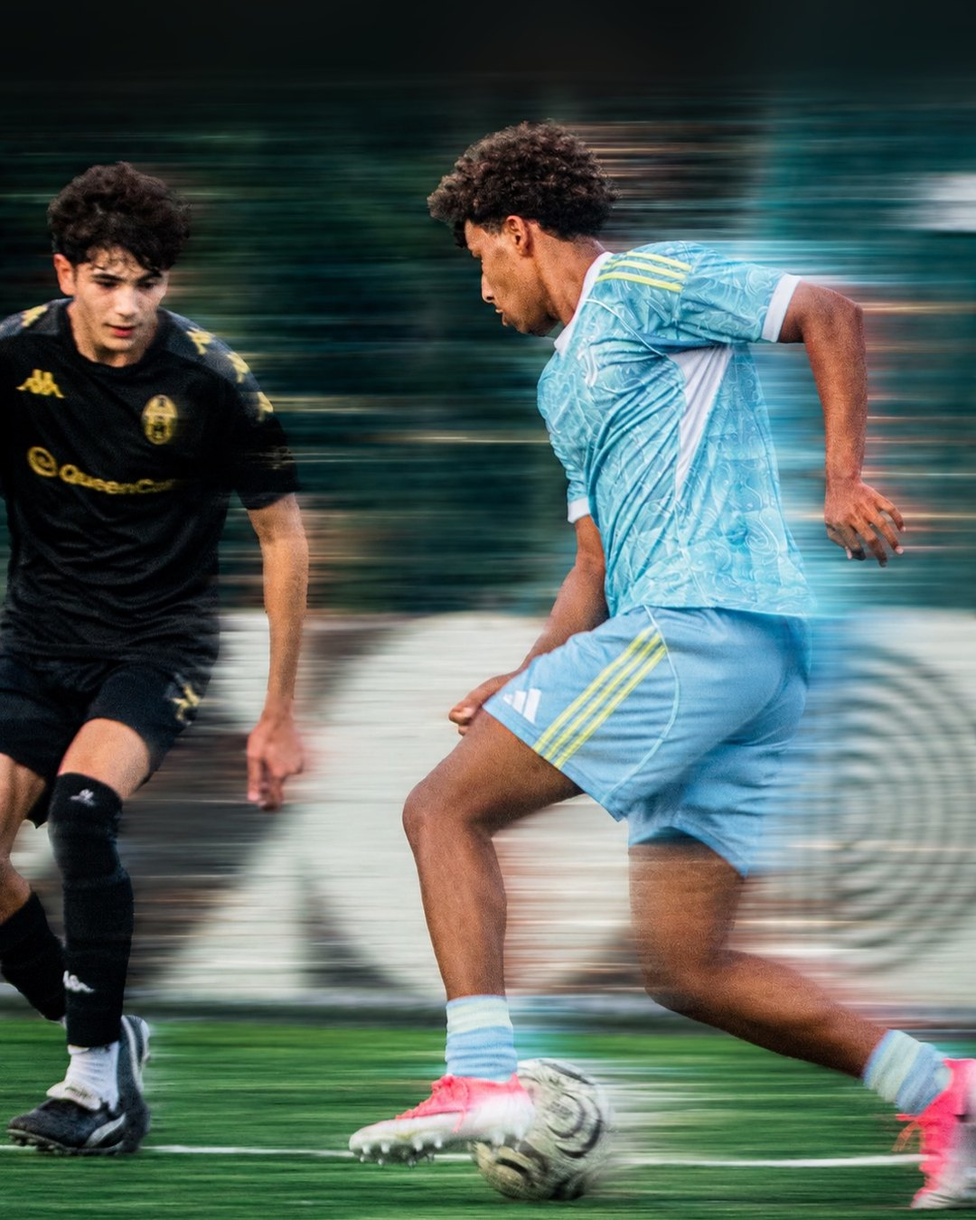
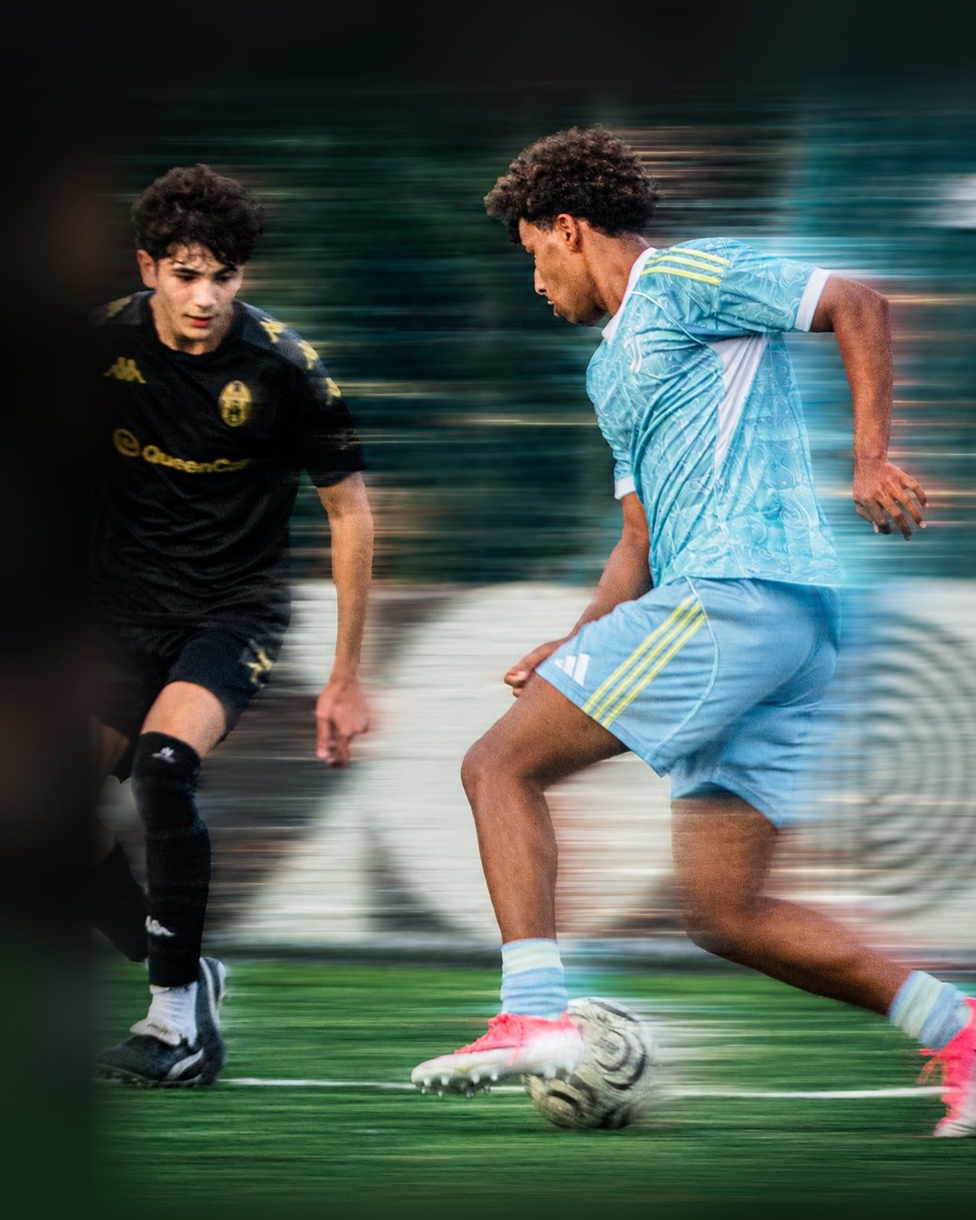
Flyers: opción A y B lado a lado con descarga en JPG; BF1000 reencuadrado (entra el otro jugador)

diff --git a/index.html b/index.html
@@ -39,6 +39,9 @@ th{font:700 15px JF;text-transform:uppercase;letter-spacing:.03em;color:#fff;bac
 .btn-demo{display:inline-block;text-decoration:none;background:var(--rojo);color:#fff;font:700 22px JF;padding:10px 26px;letter-spacing:.04em;margin-top:6px}
 .vid{display:grid;grid-template-columns:minmax(0,340px) minmax(0,1fr);gap:28px;align-items:start;margin-top:14px}.vid-marco{background:#000;border:1px solid var(--linea)}.vid video{display:block;width:100%;aspect-ratio:9/16;background:#000}.vid-info h3{margin:18px 0 6px}
 .fotos{display:grid;grid-template-columns:repeat(4,1fr);gap:10px}.fotos figure{margin:0}.fotos img{width:100%;aspect-ratio:4/3;object-fit:cover;display:block}.fotos figcaption{font-size:12.5px;color:#aaa;margin-top:4px}
+.fopciones{display:flex;gap:22px;flex-wrap:wrap;margin:14px 0}.fopc{flex:none}.fopc h5{margin:0 0 6px;font:700 20px JF;letter-spacing:.05em;color:var(--rojo)}.fopc .fpar{margin:0;gap:12px}.fopc .fly.post{width:308px}.fopc .fly.story{width:216px}
+.fbajar{display:flex;gap:10px;margin-top:10px;flex-wrap:wrap}.btn-bajar{text-decoration:none;border:1.5px solid #fff;color:#fff;font:700 16px JF;letter-spacing:.05em;padding:7px 14px}.btn-bajar:hover{background:var(--rojo);border-color:var(--rojo)}
+@media(max-width:600px){.fopc{flex:1 1 100%;min-width:0}.fopc .fly.post{width:min(308px,calc(100vw - 48px))}.fopc .fly.story{width:min(216px,calc(70vw - 34px))}}
 .fcard{margin:26px 0 34px}.fcard h4{font-size:26px}.fpar{display:flex;gap:18px;align-items:flex-end;flex-wrap:wrap;margin:14px 0}.fnotas{color:#ccc;font-size:14.5px;padding-left:18px}
 .fly{position:relative;overflow:hidden;background:#131313;color:#fff;font-family:JF,Inter,sans-serif;flex:none;container-type:inline-size}
 .fly.post{width:400px;aspect-ratio:4/5}.fly.story{width:281px;aspect-ratio:9/16}
@@ -142,8 +145,8 @@ footer{text-align:center;padding:40px 20px;color:#888;font-size:13px}footer img{
 <div class="aviso"><span class="lv" lang="es"><b>Por confirmar:</b> en la hoja de tareas (fila 38) BF27 aparece como "early bird esterni"; en la reunión se dijo Black Friday externos. Aquí se usa BF27 para Black Friday y EB27 para early bird.</span><span class="lv" lang="en"><b>To confirm:</b> in the task sheet (row 38) BF27 appears as "early bird esterni"; in the meeting it was Black Friday for outside families. Here BF27 is used for Black Friday and EB27 for early bird.</span></div>
 <article class="fcard">
   <h4>Black Friday · <span class="lv" lang="es">Familias Athletum</span><span class="lv" lang="en">Athletum families</span> · <code>BF1000</code></h4>
-  <div class="fpar"><div class="fly post" data-fly="bf1000-post">
-  <div class="fly-foto" style="background-image:url(recursos/fl_bf1000_post.jpg?v=27nov);background-position:center"></div>
+  <div class="fopciones"><div class="fopc"><h5><span class="lv" lang="es">Opción A</span><span class="lv" lang="en">Option A</span></h5><div class="fpar"><div class="fly post" data-fly="bf1000-post">
+  <div class="fly-foto" style="background-image:url(recursos/fl_bf1000_post.jpg?v=27nov2);background-position:center"></div>
   <div class="fly-velo"></div>
   <div class="fly-in">
     <img class="fly-logo" src="recursos/logo_header.png" alt="Juventus Residency">
@@ -158,7 +161,7 @@ footer{text-align:center;padding:40px 20px;color:#888;font-size:13px}footer img{
     </div>
   </div>
 </div><div class="fly story" data-fly="bf1000-story">
-  <div class="fly-foto" style="background-image:url(recursos/fl_bf1000_story.jpg?v=27nov);background-position:center"></div>
+  <div class="fly-foto" style="background-image:url(recursos/fl_bf1000_story.jpg?v=27nov2);background-position:center"></div>
   <div class="fly-velo"></div>
   <div class="fly-in">
     <img class="fly-logo" src="recursos/logo_header.png" alt="Juventus Residency">
@@ -173,15 +176,47 @@ footer{text-align:center;padding:40px 20px;color:#888;font-size:13px}footer img{
     </div>
   </div>
 </div></div>
+  <div class="fbajar"><a class="btn-bajar" href="recursos/descargas/RESIDENCY_BF1000_A_post_1080x1350.jpg?v=27nov2" download="RESIDENCY_BF1000_A_post_1080x1350.jpg"><span class="lv" lang="es">Descargar post</span><span class="lv" lang="en">Download post</span></a><a class="btn-bajar" href="recursos/descargas/RESIDENCY_BF1000_A_historia_1080x1920.jpg?v=27nov2" download="RESIDENCY_BF1000_A_historia_1080x1920.jpg"><span class="lv" lang="es">Descargar historia</span><span class="lv" lang="en">Download story</span></a></div></div><div class="fopc"><h5><span class="lv" lang="es">Opción B</span><span class="lv" lang="en">Option B</span></h5><div class="fpar"><div class="fly post" data-fly="bf1000b-post">
+  <div class="fly-foto" style="background-image:url(recursos/fl_bf1000b_post.jpg?v=27nov2);background-position:center"></div>
+  <div class="fly-velo"></div>
+  <div class="fly-in">
+    <img class="fly-logo" src="recursos/logo_header.png" alt="Juventus Residency">
+    <div class="fly-bajo">
+      <div class="fly-tag">ATHLETUM FAMILIES</div>
+      <div class="fly-fase">BLACK FRIDAY</div>
+      <div class="fly-prod">HIGH-PERFORMANCE TRAINING CAMP · ITALY</div>
+      <div class="fly-fila"><div class="fly-monto"><b>$1,000</b><span>OFF</span></div>
+        <div class="fly-dcha"><div class="fly-cod">CODE <b>BF1000</b></div><div class="fly-vig">NOV 27 – 30 ONLY</div></div></div>
+      <div class="fly-fila fly-fin"><div class="fly-cta">APPLY NOW</div>
+        <div class="fly-pie"><img src="recursos/logo_medical.png" alt="J Medical"><img src="recursos/logo_adidas.png" alt="adidas"><span>JRESIDENCY.COM</span></div></div>
+    </div>
+  </div>
+</div><div class="fly story" data-fly="bf1000b-story">
+  <div class="fly-foto" style="background-image:url(recursos/fl_bf1000b_story.jpg?v=27nov2);background-position:center"></div>
+  <div class="fly-velo"></div>
+  <div class="fly-in">
+    <img class="fly-logo" src="recursos/logo_header.png" alt="Juventus Residency">
+    <div class="fly-bajo">
+      <div class="fly-tag">ATHLETUM FAMILIES</div>
+      <div class="fly-fase">BLACK FRIDAY</div>
+      <div class="fly-prod">HIGH-PERFORMANCE TRAINING CAMP · ITALY</div>
+      <div class="fly-fila"><div class="fly-monto"><b>$1,000</b><span>OFF</span></div>
+        <div class="fly-dcha"><div class="fly-cod">CODE <b>BF1000</b></div><div class="fly-vig">NOV 27 – 30 ONLY</div></div></div>
+      <div class="fly-fila fly-fin"><div class="fly-cta">APPLY NOW</div>
+        <div class="fly-pie"><img src="recursos/logo_medical.png" alt="J Medical"><img src="recursos/logo_adidas.png" alt="adidas"><span>JRESIDENCY.COM</span></div></div>
+    </div>
+  </div>
+</div></div>
+  <div class="fbajar"><a class="btn-bajar" href="recursos/descargas/RESIDENCY_BF1000_B_post_1080x1350.jpg?v=27nov2" download="RESIDENCY_BF1000_B_post_1080x1350.jpg"><span class="lv" lang="es">Descargar post</span><span class="lv" lang="en">Download post</span></a><a class="btn-bajar" href="recursos/descargas/RESIDENCY_BF1000_B_historia_1080x1920.jpg?v=27nov2" download="RESIDENCY_BF1000_B_historia_1080x1920.jpg"><span class="lv" lang="es">Descargar historia</span><span class="lv" lang="en">Download story</span></a></div></div></div>
   <ul class="fnotas">
     <li><span class="lv" lang="es"><b>Para quién:</b> familias de Athletum (MLS NEXT, Reserve y, si se confirma, Competitive).</span><span class="lv" lang="en"><b>Audience:</b> Athletum families (MLS NEXT, Reserve and, if confirmed, Competitive).</span></li>
     <li><span class="lv" lang="es"><b>Descuento:</b> USD 1.000 con el código <b>BF1000</b>. <b>Vigencia:</b> solo del 27 al 30 de noviembre.</span><span class="lv" lang="en"><b>Discount:</b> USD 1,000 with code <b>BF1000</b>. <b>Valid:</b> Nov 27–30 only.</span></li>
-    <li><span class="lv" lang="es">Formatos: post 4:5 (1080×1350) e historia 9:16 (1080×1920). En la historia, el botón queda por encima de la zona del sticker de enlace.</span><span class="lv" lang="en">Formats: 4:5 post (1080×1350) and 9:16 story (1080×1920). In the story, the button sits above the link-sticker area.</span></li>
+    <li><span class="lv" lang="es">Formatos: post 4:5 (1080×1350) e historia 9:16 (1080×1920). En la historia, el botón queda por encima de la zona del sticker de enlace. Los botones descargan cada pieza en JPG a tamaño real.</span><span class="lv" lang="en">Formats: 4:5 post (1080×1350) and 9:16 story (1080×1920). In the story, the button sits above the link-sticker area. The buttons download each piece as a full-size JPG.</span></li>
   </ul>
 </article><article class="fcard">
   <h4>Black Friday · <span class="lv" lang="es">Externos</span><span class="lv" lang="en">Outside families</span> · <code>BF27</code></h4>
-  <div class="fpar"><div class="fly post" data-fly="bf27-post">
-  <div class="fly-foto" style="background-image:url(recursos/fl_bf27_post.jpg?v=27nov);background-position:center"></div>
+  <div class="fopciones"><div class="fopc"><h5><span class="lv" lang="es">Opción A</span><span class="lv" lang="en">Option A</span></h5><div class="fpar"><div class="fly post" data-fly="bf27-post">
+  <div class="fly-foto" style="background-image:url(recursos/fl_bf27_post.jpg?v=27nov2);background-position:center"></div>
   <div class="fly-velo"></div>
   <div class="fly-in">
     <img class="fly-logo" src="recursos/logo_header.png" alt="Juventus Residency">
@@ -196,7 +231,7 @@ footer{text-align:center;padding:40px 20px;color:#888;font-size:13px}footer img{
     </div>
   </div>
 </div><div class="fly story" data-fly="bf27-story">
-  <div class="fly-foto" style="background-image:url(recursos/fl_bf27_story.jpg?v=27nov);background-position:center"></div>
+  <div class="fly-foto" style="background-image:url(recursos/fl_bf27_story.jpg?v=27nov2);background-position:center"></div>
   <div class="fly-velo"></div>
   <div class="fly-in">
     <img class="fly-logo" src="recursos/logo_header.png" alt="Juventus Residency">
@@ -211,15 +246,47 @@ footer{text-align:center;padding:40px 20px;color:#888;font-size:13px}footer img{
     </div>
   </div>
 </div></div>
+  <div class="fbajar"><a class="btn-bajar" href="recursos/descargas/RESIDENCY_BF27_A_post_1080x1350.jpg?v=27nov2" download="RESIDENCY_BF27_A_post_1080x1350.jpg"><span class="lv" lang="es">Descargar post</span><span class="lv" lang="en">Download post</span></a><a class="btn-bajar" href="recursos/descargas/RESIDENCY_BF27_A_historia_1080x1920.jpg?v=27nov2" download="RESIDENCY_BF27_A_historia_1080x1920.jpg"><span class="lv" lang="es">Descargar historia</span><span class="lv" lang="en">Download story</span></a></div></div><div class="fopc"><h5><span class="lv" lang="es">Opción B</span><span class="lv" lang="en">Option B</span></h5><div class="fpar"><div class="fly post" data-fly="bf27b-post">
+  <div class="fly-foto" style="background-image:url(recursos/fl_bf27b_post.jpg?v=27nov2);background-position:center"></div>
+  <div class="fly-velo"></div>
+  <div class="fly-in">
+    <img class="fly-logo" src="recursos/logo_header.png" alt="Juventus Residency">
+    <div class="fly-bajo">
+      <div class="fly-tag">SUMMER 2027</div>
+      <div class="fly-fase">BLACK FRIDAY</div>
+      <div class="fly-prod">HIGH-PERFORMANCE TRAINING CAMP · ITALY</div>
+      <div class="fly-fila"><div class="fly-monto"><b>$750</b><span>OFF</span></div>
+        <div class="fly-dcha"><div class="fly-cod">CODE <b>BF27</b></div><div class="fly-vig">NOV 27 – 30 ONLY</div></div></div>
+      <div class="fly-fila fly-fin"><div class="fly-cta">APPLY NOW</div>
+        <div class="fly-pie"><img src="recursos/logo_medical.png" alt="J Medical"><img src="recursos/logo_adidas.png" alt="adidas"><span>JRESIDENCY.COM</span></div></div>
+    </div>
+  </div>
+</div><div class="fly story" data-fly="bf27b-story">
+  <div class="fly-foto" style="background-image:url(recursos/fl_bf27b_story.jpg?v=27nov2);background-position:center"></div>
+  <div class="fly-velo"></div>
+  <div class="fly-in">
+    <img class="fly-logo" src="recursos/logo_header.png" alt="Juventus Residency">
+    <div class="fly-bajo">
+      <div class="fly-tag">SUMMER 2027</div>
+      <div class="fly-fase">BLACK FRIDAY</div>
+      <div class="fly-prod">HIGH-PERFORMANCE TRAINING CAMP · ITALY</div>
+      <div class="fly-fila"><div class="fly-monto"><b>$750</b><span>OFF</span></div>
+        <div class="fly-dcha"><div class="fly-cod">CODE <b>BF27</b></div><div class="fly-vig">NOV 27 – 30 ONLY</div></div></div>
+      <div class="fly-fila fly-fin"><div class="fly-cta">APPLY NOW</div>
+        <div class="fly-pie"><img src="recursos/logo_medical.png" alt="J Medical"><img src="recursos/logo_adidas.png" alt="adidas"><span>JRESIDENCY.COM</span></div></div>
+    </div>
+  </div>
+</div></div>
+  <div class="fbajar"><a class="btn-bajar" href="recursos/descargas/RESIDENCY_BF27_B_post_1080x1350.jpg?v=27nov2" download="RESIDENCY_BF27_B_post_1080x1350.jpg"><span class="lv" lang="es">Descargar post</span><span class="lv" lang="en">Download post</span></a><a class="btn-bajar" href="recursos/descargas/RESIDENCY_BF27_B_historia_1080x1920.jpg?v=27nov2" download="RESIDENCY_BF27_B_historia_1080x1920.jpg"><span class="lv" lang="es">Descargar historia</span><span class="lv" lang="en">Download story</span></a></div></div></div>
   <ul class="fnotas">
     <li><span class="lv" lang="es"><b>Para quién:</b> todas las familias que no son de Athletum: tryouts, Summer Camps, México y listas de Residency.</span><span class="lv" lang="en"><b>Audience:</b> every family outside Athletum: tryouts, Summer Camps, Mexico and Residency lists.</span></li>
     <li><span class="lv" lang="es"><b>Descuento:</b> USD 750 con el código <b>BF27</b>. <b>Vigencia:</b> solo del 27 al 30 de noviembre.</span><span class="lv" lang="en"><b>Discount:</b> USD 750 with code <b>BF27</b>. <b>Valid:</b> Nov 27–30 only.</span></li>
-    <li><span class="lv" lang="es">Formatos: post 4:5 (1080×1350) e historia 9:16 (1080×1920). En la historia, el botón queda por encima de la zona del sticker de enlace.</span><span class="lv" lang="en">Formats: 4:5 post (1080×1350) and 9:16 story (1080×1920). In the story, the button sits above the link-sticker area.</span></li>
+    <li><span class="lv" lang="es">Formatos: post 4:5 (1080×1350) e historia 9:16 (1080×1920). En la historia, el botón queda por encima de la zona del sticker de enlace. Los botones descargan cada pieza en JPG a tamaño real.</span><span class="lv" lang="en">Formats: 4:5 post (1080×1350) and 9:16 story (1080×1920). In the story, the button sits above the link-sticker area. The buttons download each piece as a full-size JPG.</span></li>
   </ul>
 </article><article class="fcard">
   <h4>Early Bird · <span class="lv" lang="es">Familias Athletum</span><span class="lv" lang="en">Athletum families</span> · <code>EBATH</code></h4>
-  <div class="fpar"><div class="fly post" data-fly="ebath-post">
-  <div class="fly-foto" style="background-image:url(recursos/fl_ebath_post.jpg?v=27nov);background-position:center"></div>
+  <div class="fopciones"><div class="fopc"><h5><span class="lv" lang="es">Aprobada por Christian</span><span class="lv" lang="en">Approved by Christian</span></h5><div class="fpar"><div class="fly post" data-fly="ebath-post">
+  <div class="fly-foto" style="background-image:url(recursos/fl_ebath_post.jpg?v=27nov2);background-position:center"></div>
   <div class="fly-velo"></div>
   <div class="fly-in">
     <img class="fly-logo" src="recursos/logo_header.png" alt="Juventus Residency">
@@ -234,7 +301,7 @@ footer{text-align:center;padding:40px 20px;color:#888;font-size:13px}footer img{
     </div>
   </div>
 </div><div class="fly story" data-fly="ebath-story">
-  <div class="fly-foto" style="background-image:url(recursos/fl_ebath_story.jpg?v=27nov);background-position:center"></div>
+  <div class="fly-foto" style="background-image:url(recursos/fl_ebath_story.jpg?v=27nov2);background-position:center"></div>
   <div class="fly-velo"></div>
   <div class="fly-in">
     <img class="fly-logo" src="recursos/logo_header.png" alt="Juventus Residency">
@@ -249,15 +316,16 @@ footer{text-align:center;padding:40px 20px;color:#888;font-size:13px}footer img{
     </div>
   </div>
 </div></div>
+  <div class="fbajar"><a class="btn-bajar" href="recursos/descargas/RESIDENCY_EBATH_A_post_1080x1350.jpg?v=27nov2" download="RESIDENCY_EBATH_A_post_1080x1350.jpg"><span class="lv" lang="es">Descargar post</span><span class="lv" lang="en">Download post</span></a><a class="btn-bajar" href="recursos/descargas/RESIDENCY_EBATH_A_historia_1080x1920.jpg?v=27nov2" download="RESIDENCY_EBATH_A_historia_1080x1920.jpg"><span class="lv" lang="es">Descargar historia</span><span class="lv" lang="en">Download story</span></a></div></div></div>
   <ul class="fnotas">
     <li><span class="lv" lang="es"><b>Para quién:</b> familias de Athletum (MLS NEXT, Reserve y, si se confirma, Competitive).</span><span class="lv" lang="en"><b>Audience:</b> Athletum families (MLS NEXT, Reserve and, if confirmed, Competitive).</span></li>
     <li><span class="lv" lang="es"><b>Descuento:</b> USD 1.000 con el código <b>EBATH</b>. <b>Vigencia:</b> desde el 1 de diciembre (fecha final por confirmar).</span><span class="lv" lang="en"><b>Discount:</b> USD 1,000 with code <b>EBATH</b>. <b>Valid:</b> from Dec 1 (end date to be confirmed).</span></li>
-    <li><span class="lv" lang="es">Formatos: post 4:5 (1080×1350) e historia 9:16 (1080×1920). En la historia, el botón queda por encima de la zona del sticker de enlace.</span><span class="lv" lang="en">Formats: 4:5 post (1080×1350) and 9:16 story (1080×1920). In the story, the button sits above the link-sticker area.</span></li>
+    <li><span class="lv" lang="es">Formatos: post 4:5 (1080×1350) e historia 9:16 (1080×1920). En la historia, el botón queda por encima de la zona del sticker de enlace. Los botones descargan cada pieza en JPG a tamaño real.</span><span class="lv" lang="en">Formats: 4:5 post (1080×1350) and 9:16 story (1080×1920). In the story, the button sits above the link-sticker area. The buttons download each piece as a full-size JPG.</span></li>
   </ul>
 </article><article class="fcard">
   <h4>Early Bird · <span class="lv" lang="es">Externos</span><span class="lv" lang="en">Outside families</span> · <code>EB27</code></h4>
-  <div class="fpar"><div class="fly post" data-fly="eb27-post">
-  <div class="fly-foto" style="background-image:url(recursos/fl_eb27_post.jpg?v=27nov);background-position:center"></div>
+  <div class="fopciones"><div class="fopc"><h5><span class="lv" lang="es">Opción A</span><span class="lv" lang="en">Option A</span></h5><div class="fpar"><div class="fly post" data-fly="eb27-post">
+  <div class="fly-foto" style="background-image:url(recursos/fl_eb27_post.jpg?v=27nov2);background-position:center"></div>
   <div class="fly-velo"></div>
   <div class="fly-in">
     <img class="fly-logo" src="recursos/logo_header.png" alt="Juventus Residency">
@@ -272,7 +340,7 @@ footer{text-align:center;padding:40px 20px;color:#888;font-size:13px}footer img{
     </div>
   </div>
 </div><div class="fly story" data-fly="eb27-story">
-  <div class="fly-foto" style="background-image:url(recursos/fl_eb27_story.jpg?v=27nov);background-position:center"></div>
+  <div class="fly-foto" style="background-image:url(recursos/fl_eb27_story.jpg?v=27nov2);background-position:center"></div>
   <div class="fly-velo"></div>
   <div class="fly-in">
     <img class="fly-logo" src="recursos/logo_header.png" alt="Juventus Residency">
@@ -287,15 +355,47 @@ footer{text-align:center;padding:40px 20px;color:#888;font-size:13px}footer img{
     </div>
   </div>
 </div></div>
+  <div class="fbajar"><a class="btn-bajar" href="recursos/descargas/RESIDENCY_EB27_A_post_1080x1350.jpg?v=27nov2" download="RESIDENCY_EB27_A_post_1080x1350.jpg"><span class="lv" lang="es">Descargar post</span><span class="lv" lang="en">Download post</span></a><a class="btn-bajar" href="recursos/descargas/RESIDENCY_EB27_A_historia_1080x1920.jpg?v=27nov2" download="RESIDENCY_EB27_A_historia_1080x1920.jpg"><span class="lv" lang="es">Descargar historia</span><span class="lv" lang="en">Download story</span></a></div></div><div class="fopc"><h5><span class="lv" lang="es">Opción B</span><span class="lv" lang="en">Option B</span></h5><div class="fpar"><div class="fly post" data-fly="eb27b-post">
+  <div class="fly-foto" style="background-image:url(recursos/fl_eb27b_post.jpg?v=27nov2);background-position:center"></div>
+  <div class="fly-velo"></div>
+  <div class="fly-in">
+    <img class="fly-logo" src="recursos/logo_header.png" alt="Juventus Residency">
+    <div class="fly-bajo">
+      <div class="fly-tag">SUMMER 2027</div>
+      <div class="fly-fase">EARLY BIRD</div>
+      <div class="fly-prod">HIGH-PERFORMANCE TRAINING CAMP · ITALY</div>
+      <div class="fly-fila"><div class="fly-monto"><b>$750</b><span>OFF</span></div>
+        <div class="fly-dcha"><div class="fly-cod">CODE <b>EB27</b></div><div class="fly-vig">FROM DEC 1<br>LIMITED SPOTS</div></div></div>
+      <div class="fly-fila fly-fin"><div class="fly-cta">APPLY NOW</div>
+        <div class="fly-pie"><img src="recursos/logo_medical.png" alt="J Medical"><img src="recursos/logo_adidas.png" alt="adidas"><span>JRESIDENCY.COM</span></div></div>
+    </div>
+  </div>
+</div><div class="fly story" data-fly="eb27b-story">
+  <div class="fly-foto" style="background-image:url(recursos/fl_eb27b_story.jpg?v=27nov2);background-position:center"></div>
+  <div class="fly-velo"></div>
+  <div class="fly-in">
+    <img class="fly-logo" src="recursos/logo_header.png" alt="Juventus Residency">
+    <div class="fly-bajo">
+      <div class="fly-tag">SUMMER 2027</div>
+      <div class="fly-fase">EARLY BIRD</div>
+      <div class="fly-prod">HIGH-PERFORMANCE TRAINING CAMP · ITALY</div>
+      <div class="fly-fila"><div class="fly-monto"><b>$750</b><span>OFF</span></div>
+        <div class="fly-dcha"><div class="fly-cod">CODE <b>EB27</b></div><div class="fly-vig">FROM DEC 1<br>LIMITED SPOTS</div></div></div>
+      <div class="fly-fila fly-fin"><div class="fly-cta">APPLY NOW</div>
+        <div class="fly-pie"><img src="recursos/logo_medical.png" alt="J Medical"><img src="recursos/logo_adidas.png" alt="adidas"><span>JRESIDENCY.COM</span></div></div>
+    </div>
+  </div>
+</div></div>
+  <div class="fbajar"><a class="btn-bajar" href="recursos/descargas/RESIDENCY_EB27_B_post_1080x1350.jpg?v=27nov2" download="RESIDENCY_EB27_B_post_1080x1350.jpg"><span class="lv" lang="es">Descargar post</span><span class="lv" lang="en">Download post</span></a><a class="btn-bajar" href="recursos/descargas/RESIDENCY_EB27_B_historia_1080x1920.jpg?v=27nov2" download="RESIDENCY_EB27_B_historia_1080x1920.jpg"><span class="lv" lang="es">Descargar historia</span><span class="lv" lang="en">Download story</span></a></div></div></div>
   <ul class="fnotas">
     <li><span class="lv" lang="es"><b>Para quién:</b> todas las familias que no son de Athletum: tryouts, Summer Camps, México y listas de Residency.</span><span class="lv" lang="en"><b>Audience:</b> every family outside Athletum: tryouts, Summer Camps, Mexico and Residency lists.</span></li>
     <li><span class="lv" lang="es"><b>Descuento:</b> USD 750 con el código <b>EB27</b>. <b>Vigencia:</b> desde el 1 de diciembre (fecha final por confirmar).</span><span class="lv" lang="en"><b>Discount:</b> USD 750 with code <b>EB27</b>. <b>Valid:</b> from Dec 1 (end date to be confirmed).</span></li>
-    <li><span class="lv" lang="es">Formatos: post 4:5 (1080×1350) e historia 9:16 (1080×1920). En la historia, el botón queda por encima de la zona del sticker de enlace.</span><span class="lv" lang="en">Formats: 4:5 post (1080×1350) and 9:16 story (1080×1920). In the story, the button sits above the link-sticker area.</span></li>
+    <li><span class="lv" lang="es">Formatos: post 4:5 (1080×1350) e historia 9:16 (1080×1920). En la historia, el botón queda por encima de la zona del sticker de enlace. Los botones descargan cada pieza en JPG a tamaño real.</span><span class="lv" lang="en">Formats: 4:5 post (1080×1350) and 9:16 story (1080×1920). In the story, the button sits above the link-sticker area. The buttons download each piece as a full-size JPG.</span></li>
   </ul>
 </article></section>
 
 <section id="video"><h2><span class="lv" lang="es">Video para Reels, historias y anuncios</span><span class="lv" lang="en">Video for Reels, Stories and ads</span></h2>
-<div class="vid"><div class="vid-marco"><video src="recursos/video_residency_summer27.mp4?v=27nov" poster="recursos/video_portada.jpg" controls playsinline preload="metadata"></video></div>
+<div class="vid"><div class="vid-marco"><video src="recursos/video_residency_summer27.mp4?v=27nov2" poster="recursos/video_portada.jpg" controls playsinline preload="metadata"></video></div>
 <div class="vid-info">
 <p><span class="lv" lang="es">Video vertical 9:16 (1080×1920) de 27,6 segundos, hecho con material real del Instagram de Residency: camps de verano 2025 y 2026, Vinovo, el Allianz Stadium y el campus (edificio y habitaciones). Línea gráfica de Residency, textos en inglés y música épica deportiva con cortes al ritmo.</span><span class="lv" lang="en">27.6-second vertical 9:16 video (1080×1920), made with real footage from the Residency Instagram: 2025 and 2026 summer camps, Vinovo, Allianz Stadium and the campus (building and rooms). Residency visual line, English copy and epic sports music with cuts on the beat.</span></p>
 <h3><span class="lv" lang="es">Recorrido</span><span class="lv" lang="en">Storyline</span></h3>
@@ -309,7 +409,7 @@ footer{text-align:center;padding:40px 20px;color:#888;font-size:13px}footer img{
 <li><span class="lv" lang="es">Textos dentro de la zona segura de historias y Reels; la parte baja queda libre para el sticker de enlace.</span><span class="lv" lang="en">Copy sits inside the Stories and Reels safe zone; the bottom is kept clear for the link sticker.</span></li>
 <li><span class="lv" lang="es">Para WhatsApp (Camilo) se puede enviar el mismo archivo, acompañado del mensaje de la versión que corresponda.</span><span class="lv" lang="en">For WhatsApp (Camilo) the same file can be sent with the message for the matching version.</span></li>
 </ul>
-<p><a class="btn-demo" href="recursos/video_residency_summer27.mp4?v=27nov" download><span class="lv" lang="es">Descargar video</span><span class="lv" lang="en">Download video</span></a></p>
+<p><a class="btn-demo" href="recursos/video_residency_summer27.mp4?v=27nov2" download><span class="lv" lang="es">Descargar video</span><span class="lv" lang="en">Download video</span></a></p>
 </div></div></section>
 
 <section id="mensajes"><h2><span class="lv" lang="es">Mensajes en 2 versiones</span><span class="lv" lang="en">Messages in 2 versions</span></h2><h3><span class="lv" lang="es">Correos (Constant Contact)</span><span class="lv" lang="en">Emails (Constant Contact)</span></h3>
